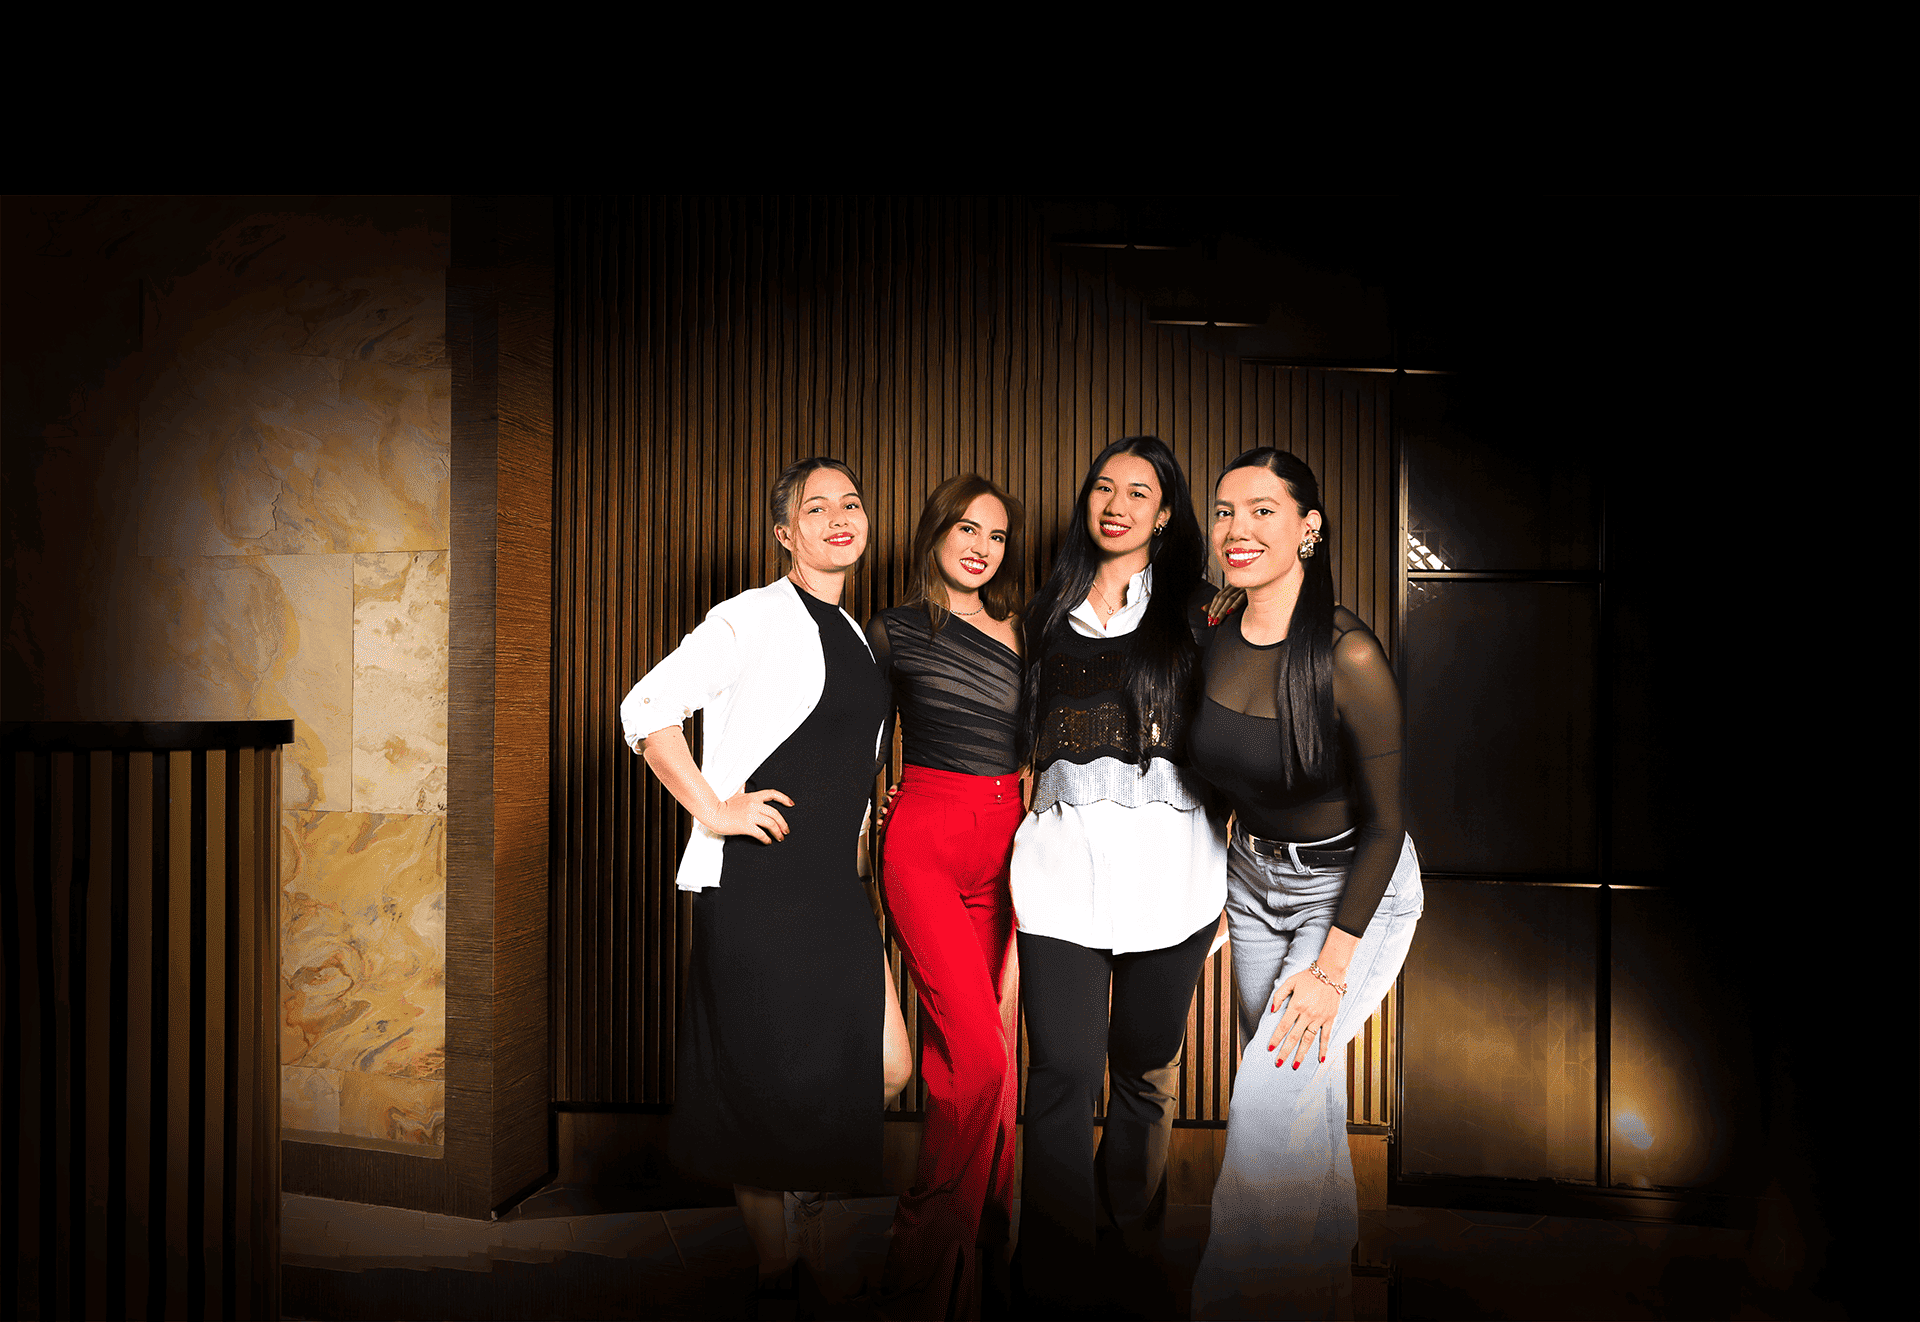
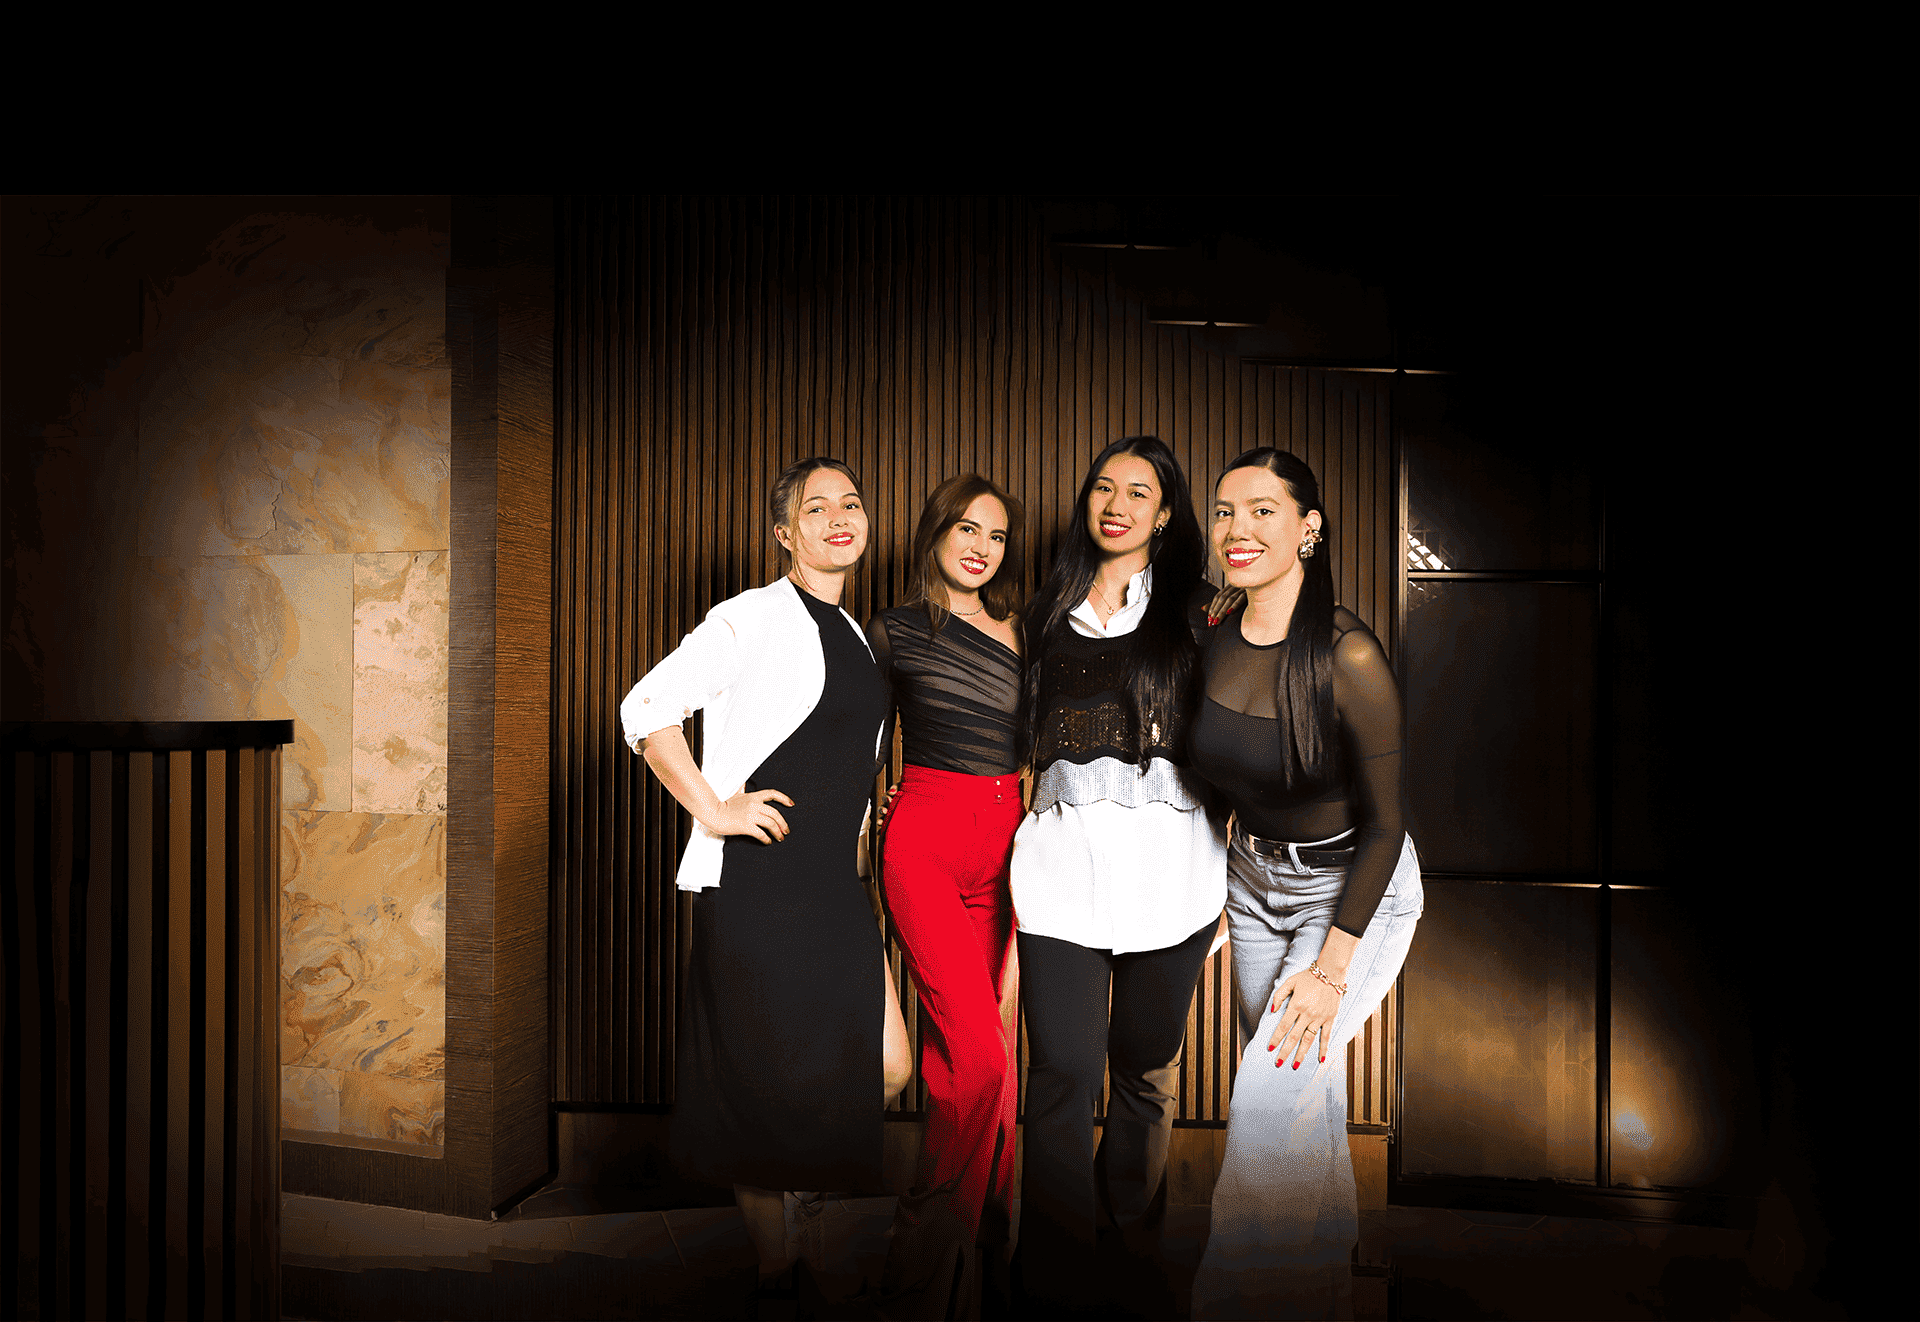
cmabio de dimensio de la imagen de cada promocion

diff --git a/components/home/index.css b/components/home/index.css
@@ -518,7 +518,7 @@ input[name="slider-radio"] {
 
   .ubicaciones-movil .card-ubicacion .card-ubicacion-img {
     height: 100px;
-    width: 50%;
+    width: 150px;
     padding: 5px;
   }
 

diff --git a/components/juego-responsable/juego-responsable.css b/components/juego-responsable/juego-responsable.css
@@ -6,6 +6,10 @@
     align-items: center;
 }
 
+.section-start-juego-responsable img {
+width: 100%;
+}
+
 .section-start-juego-responsable p {
     text-align: center;
     padding: 20px;

diff --git a/components/promociones/promocion/promocion.css b/components/promociones/promocion/promocion.css
@@ -39,8 +39,8 @@
 }
 
 .promocion-img {
-    width: 25vw;
-    height: 45vh;
+    width: 560px;
+    height: 450px;
     object-fit: cover;
     overflow: hidden;
 }
